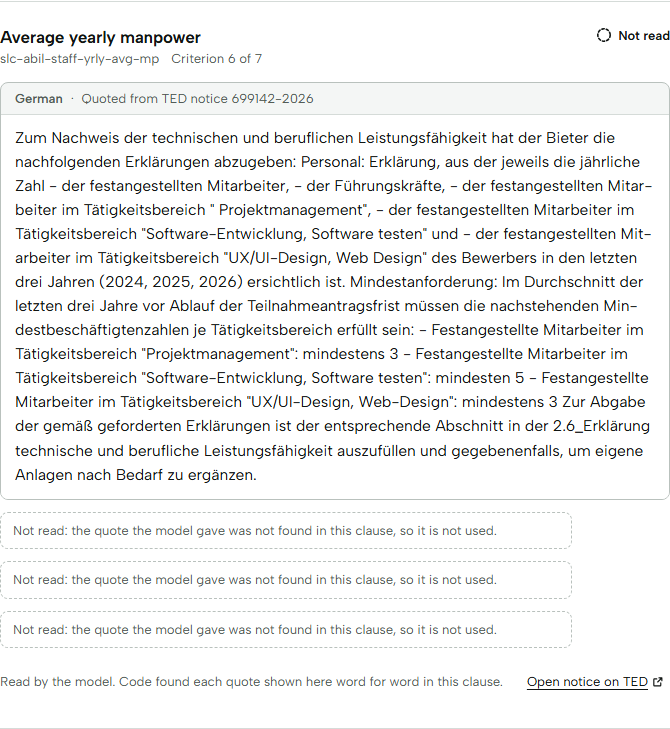
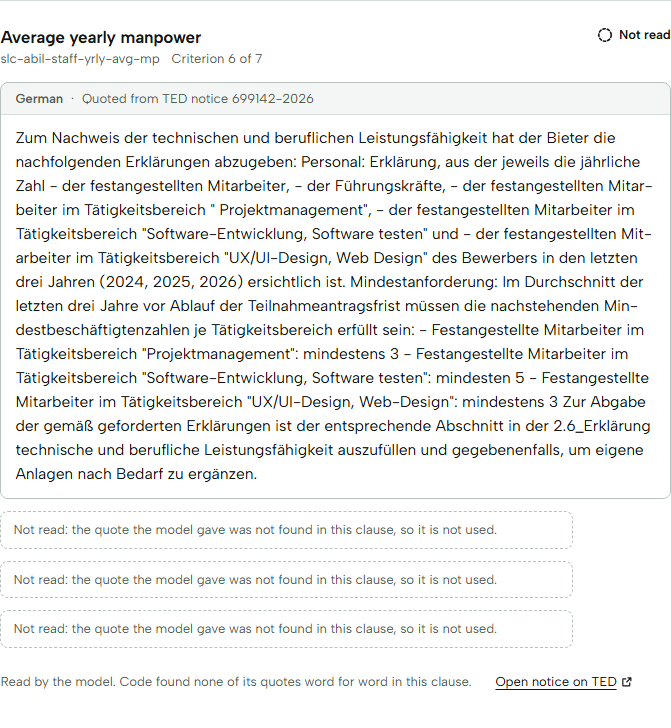
docs(readme): show the corrected refusal line and one way to run it
The refusal screenshot still showed the old footer under 699142-2026
criterion 6, which claimed code found each quote shown while all three
were refused. It is re-taken from the built Worker at the same width,
light theme, and now reads that code found none of its quotes.

The replay line and the Setup section gave two forms of the dev
command; both now say npm run dev and to open the local address it
prints.

ritual step suggest-1

diff --git a/README.md b/README.md
@@ -8,7 +8,7 @@ account and no upload. Start with
 
 **The recorded run:** [examples/2026-10-22/](examples/2026-10-22/) holds every notice, model
 reading and search the site replays. Replay it on your machine with no key and Node 24.15 or newer:
-`npm install`, then `npm run dev`.
+`npm install`, then `npm run dev`, and open the local address it prints.
 
 Pagefifty tells a small IT firm in the Netherlands, Belgium or Germany whether it meets an open EU
 tender's published selection criteria, before anyone spends two days on a bid. It quotes the clause
@@ -107,11 +107,11 @@ Node 24.15 or newer, as `.nvmrc` and the `engines` field of `package.json` say.
 
 ```sh
 npm install
-npm run dev -- --no-open
+npm run dev
 ```
 
-With no key file the app serves the recorded captures in `examples/`. Only a live capture reads
-keys, from `.env` (copy `.env.example`).
+Then open the local address `npm run dev` prints. With no key file the app serves the recorded
+captures in `examples/`. Only a live capture reads keys, from `.env` (copy `.env.example`).
 
 ## Capturing open tenders
 
